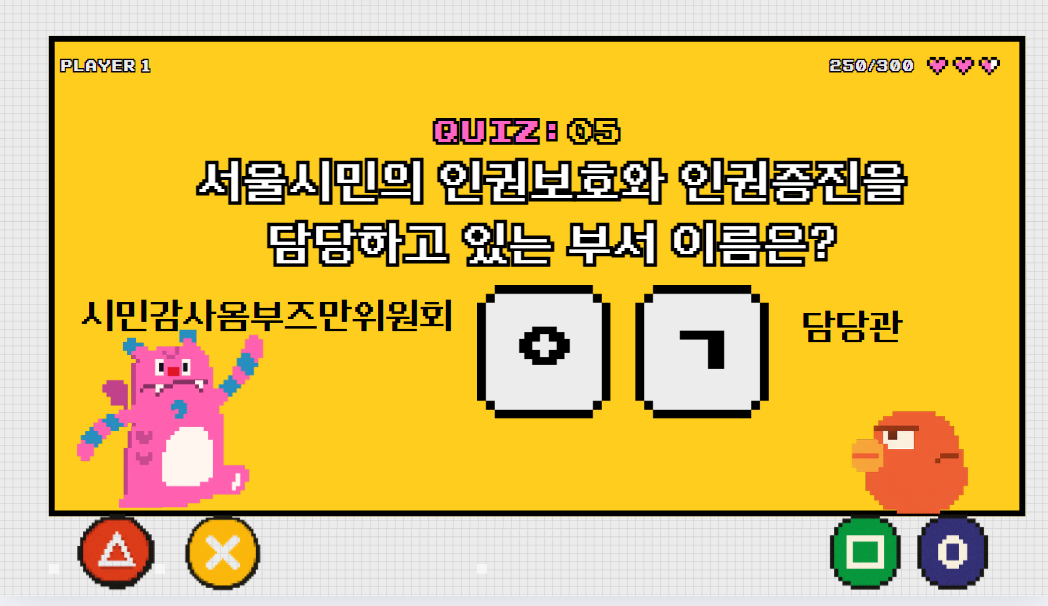
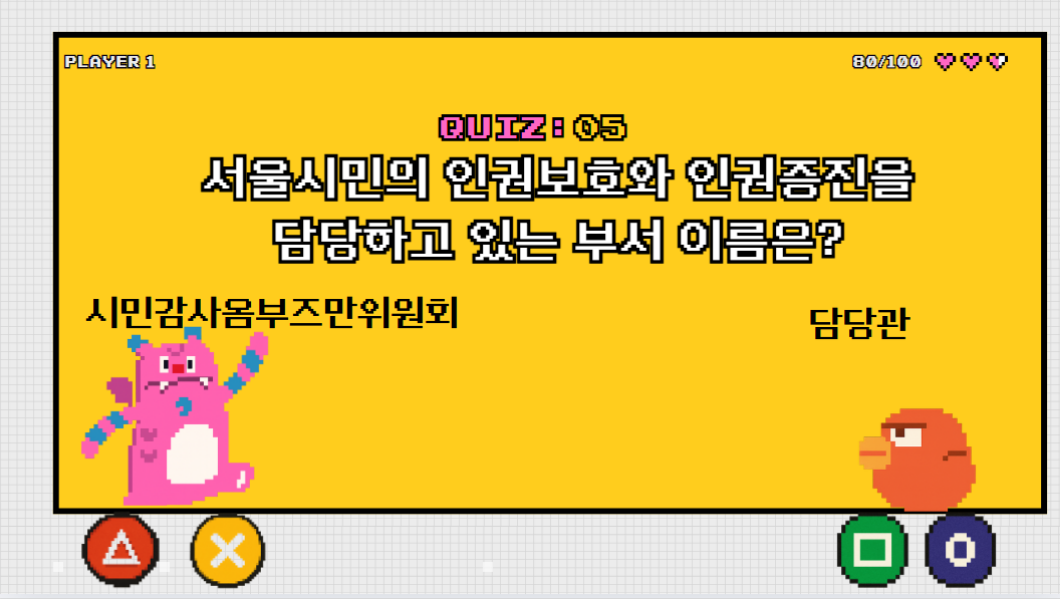
Add files via upload

Changed region(s): [[0.0305, 0.0301, 1.0, 0.9917], [0.7634, 0.5109, 0.8855, 0.571]]

diff --git a/index.html b/index.html
@@ -1,0 +1,236 @@
+<!doctype html>
+<html lang="ko">
+<head>
+  <meta charset="UTF-8">
+  <title>인권 퀴즈 5번 문제</title>
+  <style>
+    body {
+      margin: 0;
+      background: #222;
+      display: flex;
+      justify-content: center;
+      align-items: center;
+      height: 100vh;
+      font-family: '맑은 고딕', sans-serif;
+    }
+
+    .frame {
+      width: 1280px;
+      height: 720px;
+      background-image: url('q5.png'); /* 5번 문제 전체 이미지 */
+      background-size: cover;
+      background-position: center;
+      position: relative;
+      border: 4px solid #000;
+      box-shadow: 0 0 15px rgba(0,0,0,0.5);
+    }
+
+    /* ★ 가운데 초성/정답 입력 칸 (한 칸) */
+    .input-choseong {
+      position: absolute;
+      top: 55%;              /* 위치는 필요하면 조금씩 조정 가능 */
+      left: 60%;
+      transform: translate(-50%, -50%);
+      width: 220px;
+      height: 100px;
+      font-size: 50px;
+      font-weight: 900;
+      text-align: center;
+      border: 6px solid #000;
+      background: rgba(255,255,255,0.95);
+      box-shadow: 5px 5px 0 #000;
+    }
+
+    .input-choseong:focus {
+      outline: none;
+    }
+
+    /* ★ 하단 응모 폼 영역 */
+    .form-area {
+      position: absolute;
+      bottom: 10px;
+      left: 50%;
+      transform: translateX(-50%);
+      width: 40%;
+      padding: 6px 10px;
+      border: 2px solid #000;
+      background: rgba(255,255,255,0.92);
+      box-shadow: 3px 3px 0 #000;
+    }
+
+    .form-row {
+      display: flex;
+      justify-content: center;
+      gap: 12px;
+      margin-bottom: 6px;
+    }
+
+    .form-area input[type="text"],
+    .form-area input[type="tel"] {
+      width: 48%;
+      padding: 4px 6px;
+      font-size: 14px;
+      border: 2px solid #000;
+      text-align: center;
+    }
+
+    .consent-label {
+      font-size: 12px;
+      text-align: center;
+      display: block;
+      margin-bottom: 6px;
+    }
+
+    #agree {
+      margin-right: 4px;
+      transform: scale(0.9);
+    }
+
+    button {
+      padding: 6px 16px;
+      font-size: 16px;
+      font-weight: 700;
+      border: 2px solid #000;
+      background: #ffc800;
+      cursor: pointer;
+      box-shadow: 3px 3px 0 #000;
+      display: block;
+      margin-left: auto;
+      margin-right: auto;
+    }
+
+    button:active {
+      transform: translate(1px, 1px);
+      box-shadow: 1px 1px 0 #000;
+    }
+  </style>
+</head>
+<body>
+
+<div class="frame">
+
+  <!-- ★ 초성/정답 입력 한 칸 -->
+  <input
+    type="text"
+    id="q5Answer"
+    class="input-choseong"
+    value="ㅇㄱ"
+    maxlength="10"
+  >
+
+
+  <!-- ★ 하단 응모 정보 폼 -->
+  <div class="form-area">
+
+    <div class="form-row">
+      <input type="text" id="name" placeholder="닉네임">
+      <input type="tel" id="phone" placeholder="010-0000-0000">
+    </div>
+
+
+    <label class="consent-label">
+      <input type="checkbox" id="agree">
+      개인정보 수집·이용에 동의합니다.
+    </label>
+
+    <button id="submitBtn">제출하기</button>
+  </div>
+
+</div>
+
+<script>
+  // ★ 네 Apps Script 웹 앱 주소
+  const SCRIPT_URL =
+    "https://script.google.com/macros/s/AKfycbybuytqRKLZ5LtX9-Bn2HsSPgwIw_AIs-hvZpXpsbiV3SGXKbir98sekWsWiRhohJQNeQ/exec";
+
+  const answerInput = document.getElementById('q5Answer');
+  const nameInput   = document.getElementById('name');
+  const phoneInput  = document.getElementById('phone');
+  const agreeCheck  = document.getElementById('agree');
+  const submitBtn   = document.getElementById('submitBtn');
+// ★ 입력칸 클릭하면 placeholder 숨기기 + 벗어나면 복귀
+[nameInput, phoneInput].forEach(input => {
+  input.addEventListener("focus", () => {
+    input.dataset.placeholder = input.placeholder;  // 기존 placeholder 저장
+    input.placeholder = "";                         // 숨기기
+  });
+
+  input.addEventListener("blur", () => {
+    if (input.value.trim() === "") {
+      input.placeholder = input.dataset.placeholder; // 다시 보여주기
+    }
+  });
+});
+
+// ★ 정답 입력칸 — 딱 2글자만 입력 가능 (한글 조합 포함)
+answerInput.addEventListener("input", () => {
+  if (answerInput.value.length > 2) {
+    answerInput.value = answerInput.value.slice(0, 2);
+  }
+});
+
+answerInput.addEventListener("compositionend", () => {
+  if (answerInput.value.length > 2) {
+    answerInput.value = answerInput.value.slice(0, 2);
+  }
+});
+
+
+  // ★ 처음 클릭하면 'ㅇㄱ' 지우고 바로 입력할 수 있게
+  answerInput.addEventListener('focus', () => {
+    if (answerInput.value === 'ㅇㄱ') {
+      answerInput.value = '';
+    }
+  });
+
+  // ★ 제출 처리
+  submitBtn.addEventListener('click', () => {
+    const name   = nameInput.value.trim();
+    const phone  = phoneInput.value.trim();
+    const answer = answerInput.value.trim();
+    const agree  = agreeCheck.checked;
+
+    if (!name) {
+      alert('닉네임을 입력해 주세요.');
+      nameInput.focus();
+      return;
+    }
+
+    if (!phone) {
+      alert('전화번호를 입력해 주세요.');
+      phoneInput.focus();
+      return;
+    }
+
+    if (!answer || answer === 'ㅇㄱ') {
+      alert('초성 ㅇㄱ을 지우고 정답을 입력해 주세요. (예: 인권)');
+      answerInput.focus();
+      return;
+    }
+
+    if (!agree) {
+      alert('개인정보 수집·이용 동의가 필요합니다.');
+      return;
+    }
+
+    const url =
+      SCRIPT_URL +
+      '?name='  + encodeURIComponent(name) +
+      '&phone=' + encodeURIComponent(phone) +
+      '&q5='    + encodeURIComponent(answer) +
+      '&agree=' + encodeURIComponent(agree);
+
+    alert('응모가 완료되었습니다! 참여해줘서 고마워요 💛');
+
+    // 중복 제출 방지
+    submitBtn.disabled = true;
+    submitBtn.style.opacity = '0.5';
+    submitBtn.style.cursor = 'not-allowed';
+    submitBtn.textContent = '제출 완료';
+
+    fetch(url).catch(err => console.error('저장 오류:', err));
+  });
+</script>
+
+</body>
+</html>
